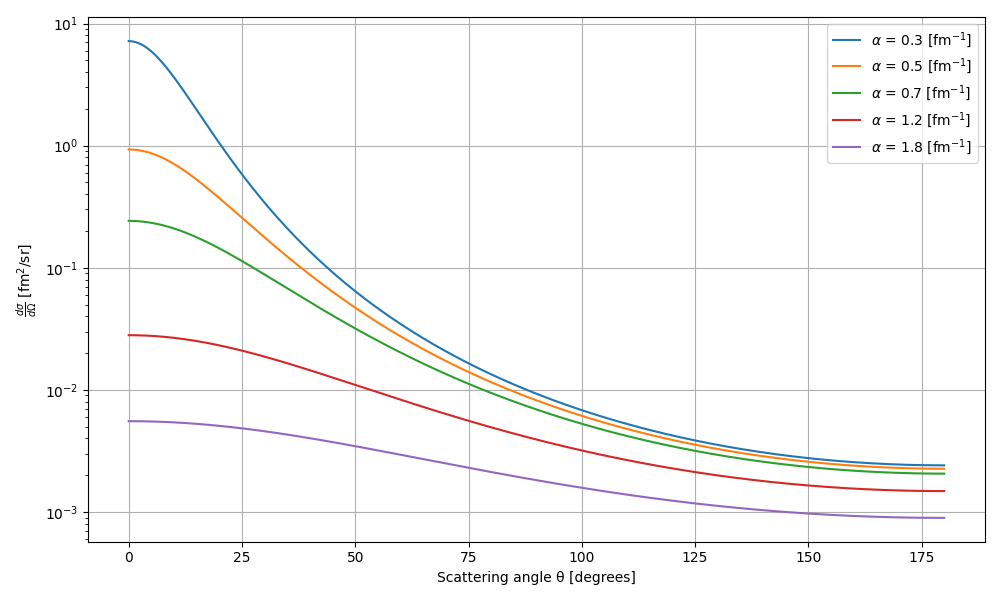
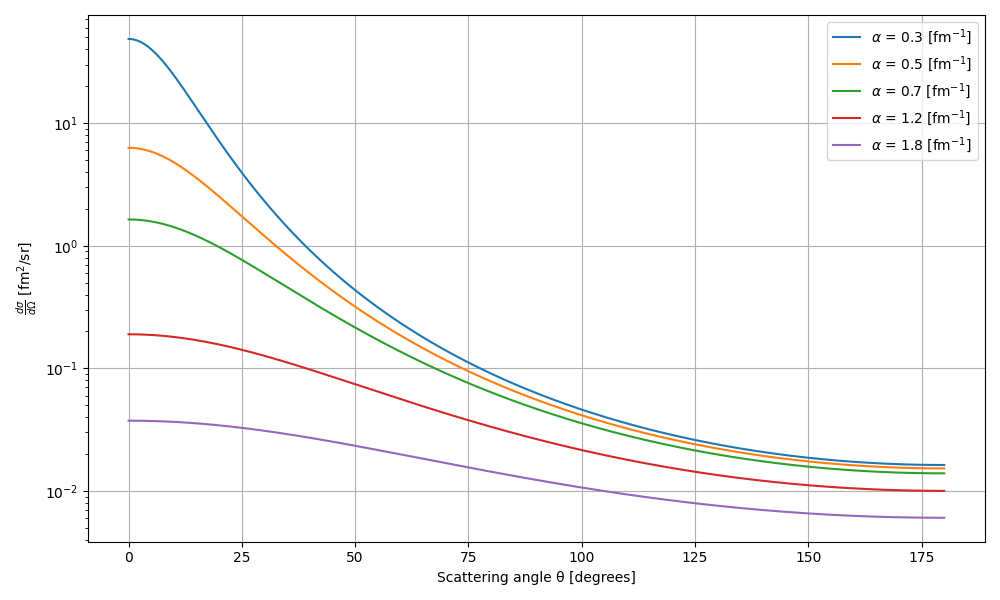
real final version V=26

diff --git a/Subatomic/problem_6/v0fix.py b/Subatomic/problem_6/v0fix.py
@@ -23,7 +23,7 @@ def angulardist(q, V0, alpha):
 
 
 # Now, I keep  v0 fixed and vary the values of alpha
-V0_fixed = 10                               # [MeV·fm]
+V0_fixed = 26                               # [MeV·fm]
 alpha_vals = [0.3, 0.5, 0.7, 1.2, 1.8]      # [fm^-1] 
 
 
